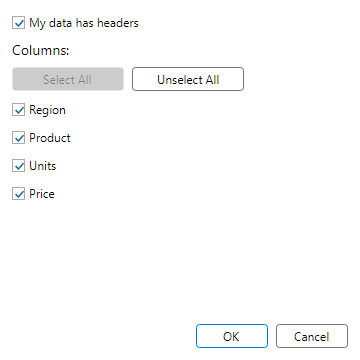
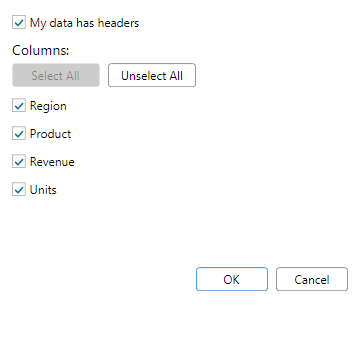
Align FreeX Remove Duplicates dialog evidence

diff --git a/src/FreeX.App.Avalonia/MainWindow.cs b/src/FreeX.App.Avalonia/MainWindow.cs
@@ -16766,25 +16766,25 @@ public sealed partial class MainWindow : Window
         var selectAllButton = new Button
         {
             Content = "Select All",
-            Width = 112,
-            MinWidth = 112,
+            Width = 88,
+            MinWidth = 88,
             Margin = new Thickness(0, 0, 8, 0),
         };
         AutomationProperties.SetName(selectAllButton, "Select All");
         AutomationProperties.SetAutomationId(selectAllButton, "RemoveDuplicatesSelectAllButton");
         AutomationProperties.SetHelpText(selectAllButton, "Select all columns for duplicate comparison.");
-        ApplyDialogButtonChrome(selectAllButton, width: 112);
+        ApplyDialogButtonChrome(selectAllButton, width: 88);
 
         var unselectAllButton = new Button
         {
             Content = "Unselect All",
-            Width = 112,
-            MinWidth = 112,
+            Width = 88,
+            MinWidth = 88,
         };
         AutomationProperties.SetName(unselectAllButton, "Unselect All");
         AutomationProperties.SetAutomationId(unselectAllButton, "RemoveDuplicatesUnselectAllButton");
         AutomationProperties.SetHelpText(unselectAllButton, "Clear all selected duplicate comparison columns.");
-        ApplyDialogButtonChrome(unselectAllButton, width: 112);
+        ApplyDialogButtonChrome(unselectAllButton, width: 88);
 
         var errorText = new TextBlock
         {
@@ -16905,26 +16905,17 @@ public sealed partial class MainWindow : Window
         dialog.Content = new Border
         {
             Padding = new Thickness(12),
-            Child = new AvaloniaGrid
+            Child = new StackPanel
             {
-                RowDefinitions =
-                {
-                    new RowDefinition { Height = GridLength.Auto },
-                    new RowDefinition { Height = GridLength.Auto },
-                    new RowDefinition { Height = GridLength.Auto },
-                    new RowDefinition { Height = new GridLength(1, GridUnitType.Star) },
-                    new RowDefinition { Height = GridLength.Auto },
-                    new RowDefinition { Height = GridLength.Auto },
-                },
                 Children =
                 {
                     hasHeadersBox,
-                    Positioned(1, new TextBlock
+                    new TextBlock
                     {
                         Text = "Columns:",
-                        Margin = new Thickness(0, 0, 0, 8),
-                    }),
-                    Positioned(2, new StackPanel
+                        Margin = new Thickness(0, 0, 0, 4),
+                    },
+                    new StackPanel
                     {
                         Orientation = Orientation.Horizontal,
                         Margin = new Thickness(0, 0, 0, 8),
@@ -16933,14 +16924,15 @@ public sealed partial class MainWindow : Window
                             selectAllButton,
                             unselectAllButton,
                         },
-                    }),
-                    Positioned(3, new ScrollViewer
+                    },
+                    new ScrollViewer
                     {
+                        Height = 160,
                         VerticalScrollBarVisibility = ScrollBarVisibility.Auto,
                         Content = columnsPanel,
-                    }),
-                    Positioned(4, errorText),
-                    Positioned(5, new StackPanel
+                    },
+                    errorText,
+                    new StackPanel
                     {
                         Orientation = Orientation.Horizontal,
                         HorizontalAlignment = AvaloniaHorizontalAlignment.Right,
@@ -16951,7 +16943,7 @@ public sealed partial class MainWindow : Window
                             okButton,
                             cancelButton,
                         },
-                    }),
+                    },
                 },
             },
         };
@@ -16959,12 +16951,6 @@ public sealed partial class MainWindow : Window
 
         await dialog.ShowDialog(this);
         return result;
-
-        static Control Positioned(int row, Control control)
-        {
-            AvaloniaGrid.SetRow(control, row);
-            return control;
-        }
     }
 
     private static string FormatRemoveDuplicatesStatus(

diff --git a/tests/FreeX.App.Services.Tests/AvaloniaShellSourceTests.cs b/tests/FreeX.App.Services.Tests/AvaloniaShellSourceTests.cs
@@ -3134,6 +3134,10 @@ public sealed class AvaloniaShellSourceTests
         source.Should().Contain("RemoveDuplicatesPlanner.CreatePlan(");
         source.Should().Contain("RenderColumns(RemoveDuplicatesPlanner.SelectAll(CaptureColumns()))");
         source.Should().Contain("RenderColumns(RemoveDuplicatesPlanner.ClearAll(CaptureColumns()))");
+        source.Should().Contain("ApplyDialogButtonChrome(selectAllButton, width: 88);");
+        source.Should().Contain("ApplyDialogButtonChrome(unselectAllButton, width: 88);");
+        source.Should().Contain("Child = new StackPanel");
+        source.Should().Contain("Height = 160");
         source.Should().Contain("private static string FormatRemoveDuplicatesStatus(");
 
         sessionSource.Should().Contain("public WorkbookRemoveDuplicatesResult ExecuteRemoveDuplicatesPlan(RemoveDuplicatesPlan plan)");
@@ -3148,7 +3152,11 @@ public sealed class AvaloniaShellSourceTests
         plannerSource.Should().Contain("public RemoveDuplicateRowsCommand CreateCommand(SheetId sheetId)");
         parityCaptureSource.Should().Contain("(\"dialog.RemoveDuplicates\", () => ShowRemoveDuplicatesParityDialogAsync()),");
         parityCaptureSource.Should().Contain("private async Task ShowRemoveDuplicatesParityDialogAsync()");
+        parityCaptureSource.Should().Contain("var previousHeaders = CaptureHeaderCells(sheet, row: 1, startColumn: 1, columnCount: 4);");
+        parityCaptureSource.Should().Contain("SeedRemoveDuplicatesParityHeaders(sheet);");
         parityCaptureSource.Should().Contain("await ShowRemoveDuplicatesInputDialogAsync(forceHasHeaders: true);");
+        parityCaptureSource.Should().Contain("RestoreHeaderCells(sheet, row: 1, startColumn: 1, previousHeaders);");
+        parityCaptureSource.Should().Contain("string[] headers = [\"Region\", \"Product\", \"Revenue\", \"Units\"];");
 
         var handlerIndex = normalizedSource.IndexOf("private async Task ShowRemoveDuplicatesDialogAsync()", StringComparison.Ordinal);
         handlerIndex.Should().BeGreaterThanOrEqualTo(0);

diff --git a/src/FreeX.App.Avalonia/MainWindow.ParityCapture.cs b/src/FreeX.App.Avalonia/MainWindow.ParityCapture.cs
@@ -739,6 +739,9 @@ public sealed partial class MainWindow
         if (!previousSheetId.Equals(sheetId))
             _session.SelectSheet(sheetId);
 
+        var sheet = _session.ActiveSheet;
+        var previousHeaders = CaptureHeaderCells(sheet, row: 1, startColumn: 1, columnCount: 4);
+        SeedRemoveDuplicatesParityHeaders(sheet);
         _session.SelectRange(new GridRange(
             new CellAddress(sheetId, 1, 1),
             new CellAddress(sheetId, 4, 4)));
@@ -750,10 +753,38 @@ public sealed partial class MainWindow
         }
         finally
         {
+            RestoreHeaderCells(sheet, row: 1, startColumn: 1, previousHeaders);
             if (!previousSheetId.Equals(_session.ActiveSheet.Id))
                 _session.SelectSheet(previousSheetId);
             _session.SelectRange(previousSelection);
             RefreshShell(_statusText.Text ?? "Ready");
+        }
+    }
+
+    private static Cell?[] CaptureHeaderCells(Sheet sheet, uint row, uint startColumn, int columnCount)
+    {
+        var cells = new Cell?[columnCount];
+        for (var index = 0; index < cells.Length; index++)
+            cells[index] = sheet.GetCell(row, startColumn + (uint)index)?.Clone();
+        return cells;
+    }
+
+    private static void SeedRemoveDuplicatesParityHeaders(Sheet sheet)
+    {
+        string[] headers = ["Region", "Product", "Revenue", "Units"];
+        for (var index = 0; index < headers.Length; index++)
+            sheet.SetCell(new CellAddress(sheet.Id, 1, (uint)(index + 1)), Cell.FromValue(new TextValue(headers[index])));
+    }
+
+    private static void RestoreHeaderCells(Sheet sheet, uint row, uint startColumn, IReadOnlyList<Cell?> cells)
+    {
+        for (var index = 0; index < cells.Count; index++)
+        {
+            var address = new CellAddress(sheet.Id, row, startColumn + (uint)index);
+            if (cells[index] is { } cell)
+                sheet.SetCell(address, cell);
+            else
+                sheet.ClearCell(address);
         }
     }
 

diff --git a/docs/parity/dialog-visual-evidence-summary.md b/docs/parity/dialog-visual-evidence-summary.md
@@ -65,7 +65,6 @@ Outliers are ranked by a deterministic triage score: normalized 32x32 ARGB sampl
 
 | Surface id | WPF logical size | Avalonia logical size | Raw PNG sizes | Bucket | Evidence flag | Score | Sample delta | Luma delta | Non-bg delta |
 | --- | ---: | ---: | --- | --- | --- | ---: | ---: | ---: | ---: |
-| dialog.RemoveDuplicates | 360x360 | 360x360 | 360x360 px @ 96 DPI vs 360x360 px @ 96 DPI |  |  | 0.516 | 0.196 | 0.151 | 0.168 |
 | dialog.PrintPreview | 1120x700 | 1120x700 | 1120x700 px @ 96 DPI vs 1120x700 px @ 96 DPI |  |  | 0.512 | 0.141 | 0.017 | 0.353 |
 | dialog.PivotValueFieldSettings.NumberFormat | 430x430 | 430x430 | 430x430 px @ 96 DPI vs 430x430 px @ 96 DPI |  |  | 0.491 | 0.162 | 0.137 | 0.192 |
 | dialog.PivotValueFieldSettings | 430x430 | 430x430 | 430x430 px @ 96 DPI vs 430x430 px @ 96 DPI |  |  | 0.472 | 0.161 | 0.133 | 0.178 |
@@ -75,6 +74,7 @@ Outliers are ranked by a deterministic triage score: normalized 32x32 ARGB sampl
 | dialog.PivotFieldFilter.LabelFilters | 380x470 | 380x470 | 380x470 px @ 96 DPI vs 380x470 px @ 96 DPI |  |  | 0.453 | 0.156 | 0.129 | 0.167 |
 | dialog.PivotFieldFilter.ValueFilters | 380x470 | 380x470 | 380x470 px @ 96 DPI vs 380x470 px @ 96 DPI |  |  | 0.452 | 0.155 | 0.129 | 0.168 |
 | dialog.PivotFieldFilter | 380x470 | 380x470 | 380x470 px @ 96 DPI vs 380x470 px @ 96 DPI |  |  | 0.423 | 0.163 | 0.124 | 0.136 |
+| dialog.PivotFieldFilter.SelectItems | 380x470 | 380x470 | 380x470 px @ 96 DPI vs 380x470 px @ 96 DPI |  |  | 0.423 | 0.163 | 0.124 | 0.136 |
 
 ## Scale-Aware Dimension Mismatch Details
 
@@ -186,7 +186,7 @@ These rows have a DPI-normalized checked-in PNG size that disagrees with the dia
 | dialog.ProtectSheet | dialog.ProtectSheet.png | 430x540 | 645x810 px @ 144 DPI | True | dialog.ProtectSheet.png | 430x540 | 430x540 px @ 96 DPI | True | True | 0.045 |
 | dialog.ProtectWorkbook | dialog.ProtectWorkbook.png | 360x250 | 540x375 px @ 144 DPI | True | dialog.ProtectWorkbook.png | 380x240 | 380x240 px @ 96 DPI | True | False | 0.165 |
 | dialog.RecommendedPivotTables | dialog.RecommendedPivotTables.png | 560x340 | 840x510 px @ 144 DPI | True | dialog.RecommendedPivotTables.png | 560x340 | 560x340 px @ 96 DPI | True | True | 0.044 |
-| dialog.RemoveDuplicates | dialog.RemoveDuplicates.png | 360x360 | 360x360 px @ 96 DPI | True | dialog.RemoveDuplicates.png | 360x360 | 360x360 px @ 96 DPI | True | True | 0.516 |
+| dialog.RemoveDuplicates | dialog.RemoveDuplicates.png | 360x360 | 360x360 px @ 96 DPI | True | dialog.RemoveDuplicates.png | 360x360 | 360x360 px @ 96 DPI | True | True | 0.057 |
 | dialog.RenameSheet | dialog.RenameSheet.png | 340x150 | 510x225 px @ 144 DPI | True | dialog.RenameSheet.png | 340x150 | 340x150 px @ 96 DPI | True | True | 0.062 |
 | dialog.SaveAsWorkbook | dialog.SaveAsWorkbook.png | 640x420 | 640x420 px @ 96 DPI | True | dialog.SaveAsWorkbook.png | 640x420 | 640x420 px @ 96 DPI | True | True | 0.036 |
 | dialog.ScenarioManager | dialog.ScenarioManager.png | 360x420 | 540x630 px @ 144 DPI | True | dialog.ScenarioManager.png | 360x420 | 360x420 px @ 96 DPI | True | True | 0.104 |
